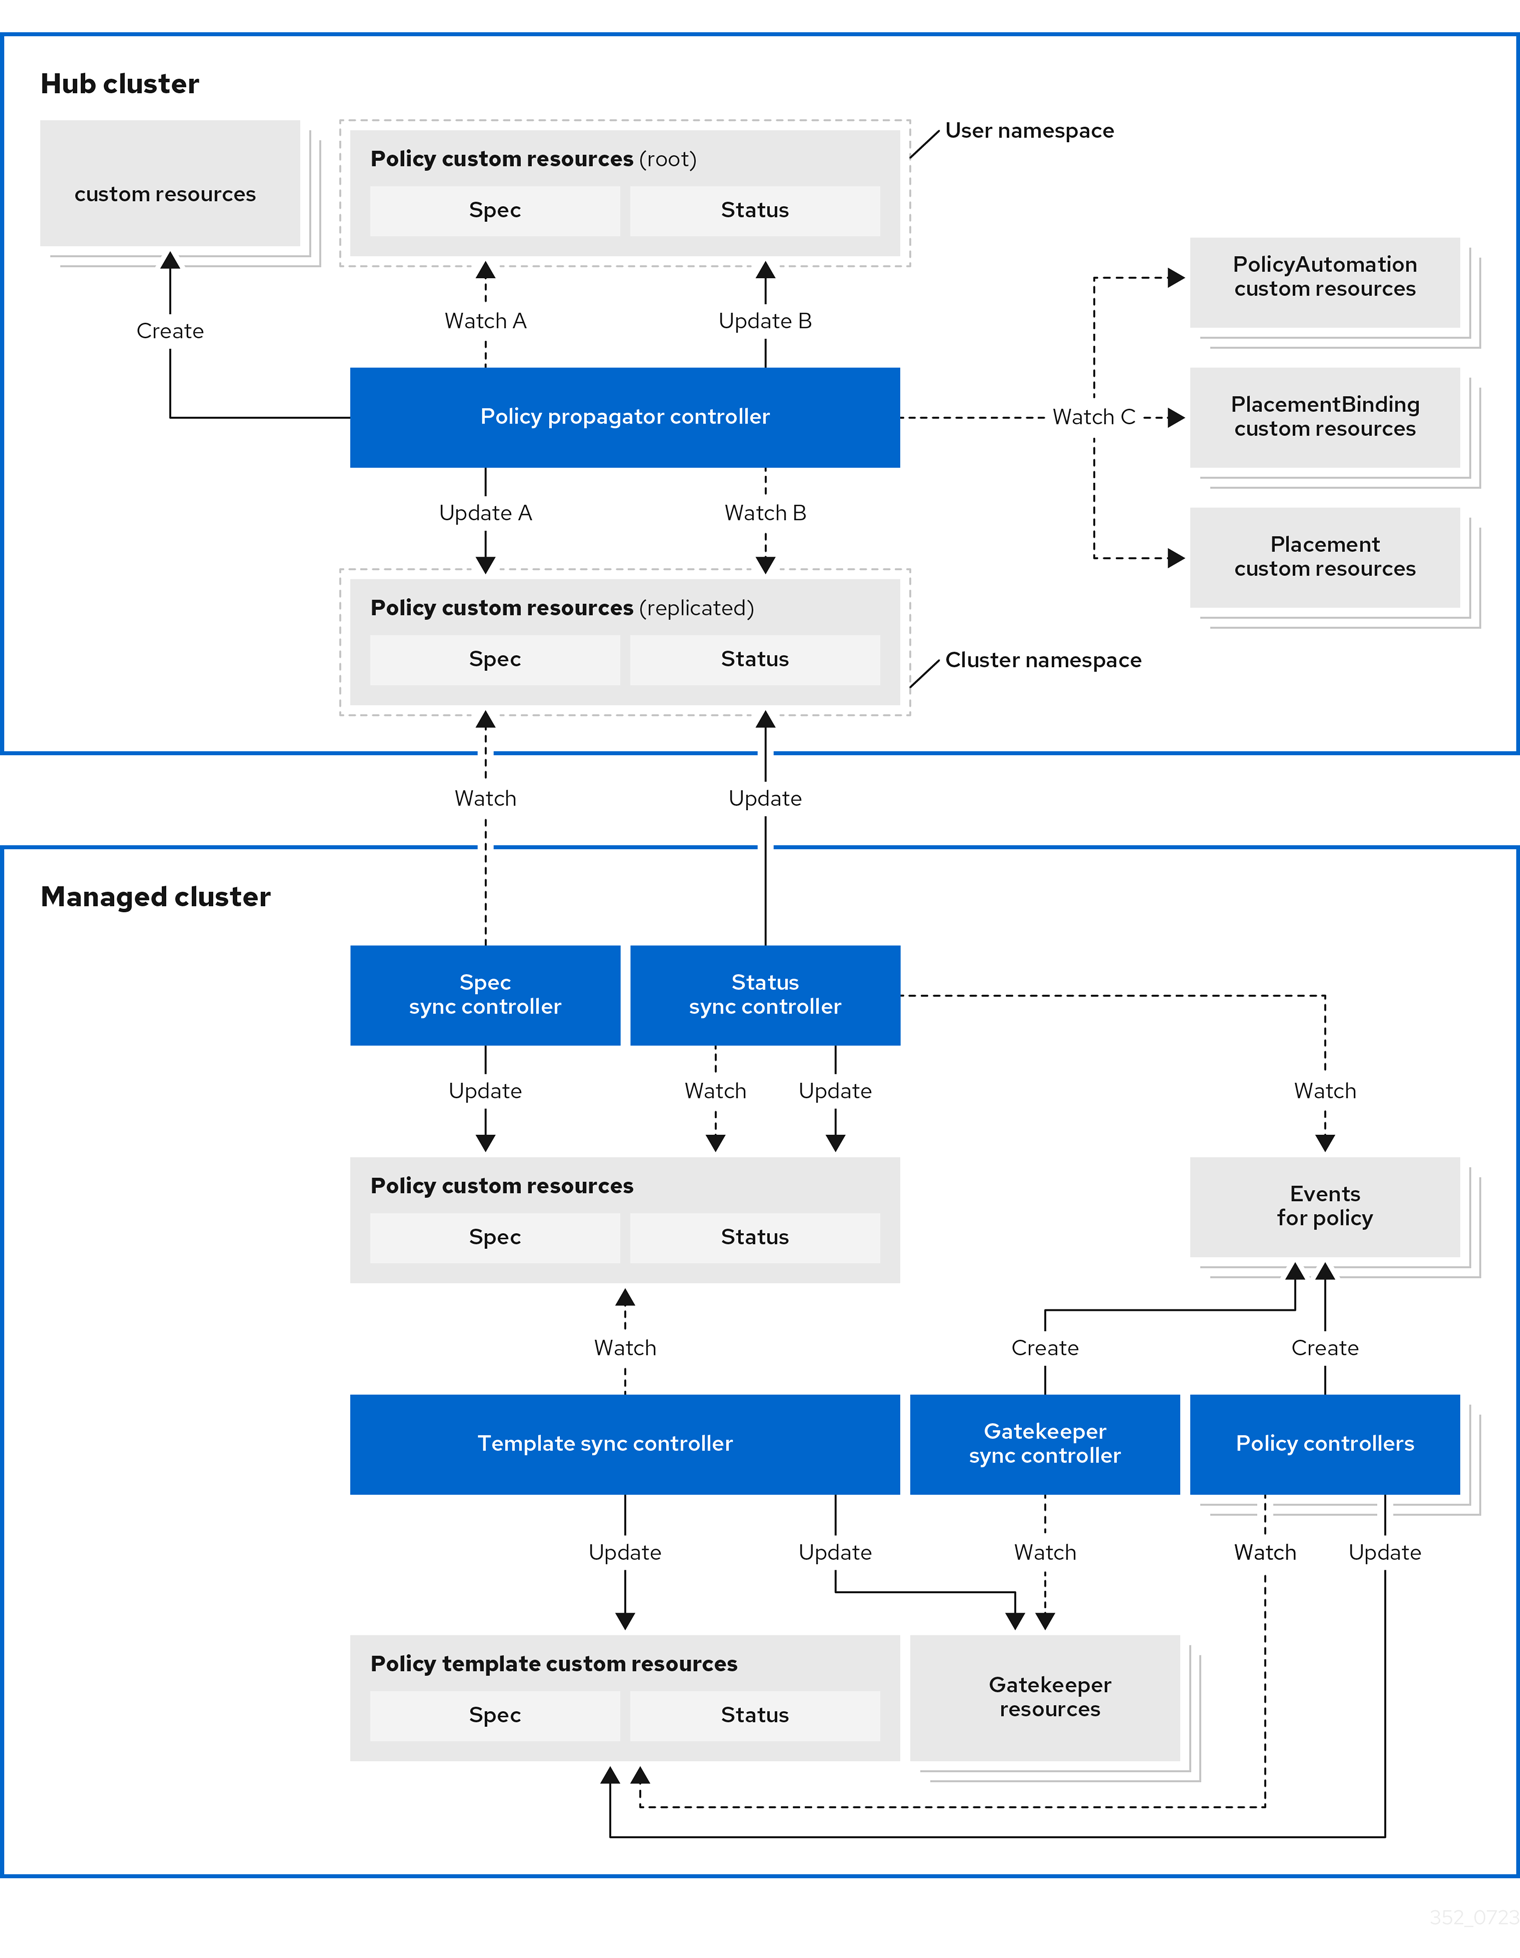
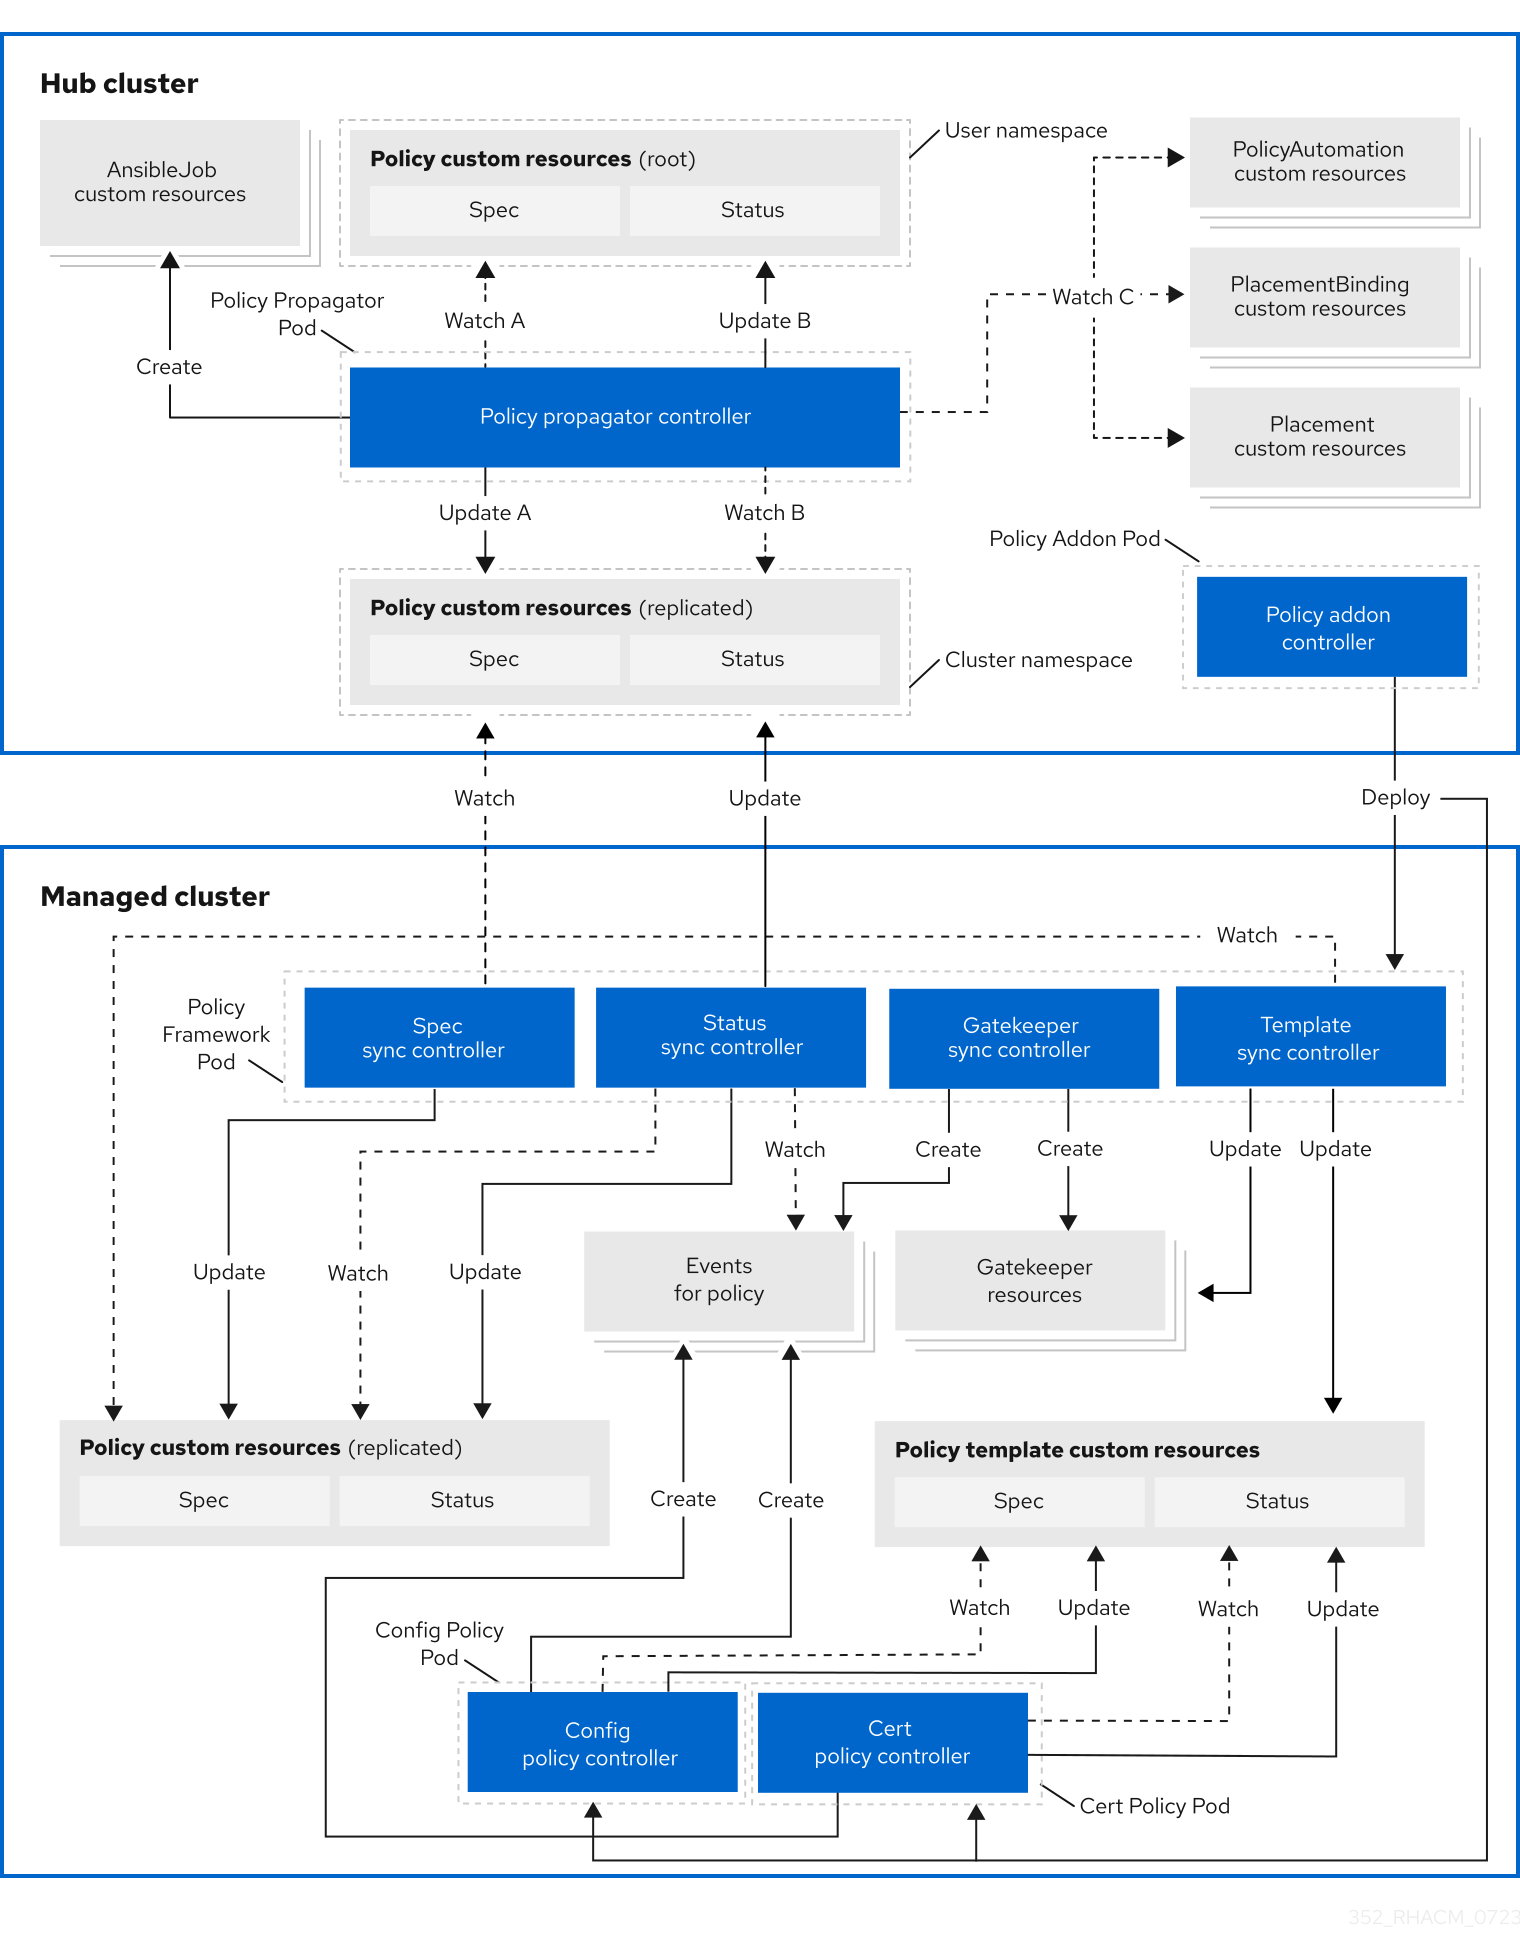
Update arch diagram and desc
ref: https://issues.redhat.com/browse/ACM-10779

diff --git a/README.md b/README.md
@@ -22,20 +22,22 @@ View the following functions of the policy framework:
 
 ![architecture](images/policy-framework-architecture-diagram.png)
 
-The governance policy framework consists of following components:
+The governance policy framework consists of the following components:
 
 - Govenance policy framework: A framework to distribute various supported policies to managed
-  clusters and collect results to be sent to the hub cluster.
+  clusters and collect results to be sent to the hub cluster. The framework replicates `Policy` Custom Resources (CRs) from the "user namespace" to the "cluster namespace" on the hub cluster. The `Policy` CRs in the "cluster namespace" are further replicated to the managed clusters.
   - [Policy propagator](https://github.com/stolostron/governance-policy-propagator)
   - [Governance policy framework addon](https://github.com/stolostron/governance-policy-framework-addon)
 - Policy controllers: Policy engines that run on managed clusters to evaluate policy rules
-  distributed by the policy framework and generate results.
+  distributed by the policy framework and generate results. The results are reported back to the hub cluster.
   - [Configuration policy controller](https://github.com/stolostron/config-policy-controller)
     - [Usage examples](./doc/configuration-policy/README.md)
   - [Certificate policy controller](https://github.com/stolostron/cert-policy-controller)
-  - Third-party
+  - Third-party (optional)
     - [Gatekeeper](https://github.com/open-policy-agent/gatekeeper)
     - [Kyverno](https://github.com/kyverno/kyverno/)
+
+If desired, users can request automated actions to perform when a policy is violated. These automated actions consist of `PolicyAutomation` CRs and `AnsibleJob` CRs as shown in the hub cluster.
 
 ## The Policy CRDs
 
